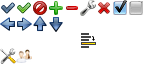
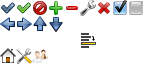
Доработаны стили главного меню.

Changed region(s): [[0.0, 0.75, 0.3333, 1.0]]

diff --git a/src/admin/themes/default/blocks/icon/_img/icon_img_users.css b/src/admin/themes/default/blocks/icon/_img/icon_img_users.css
@@ -1,5 +1,5 @@
 .icon_img_users
 {
     background-image: url(img/icons-16.png);
-    background-position: -16px -48px;
+    background-position: -32px -48px;
 }

diff --git a/src/admin/themes/default/blocks/icon/_img/icon_img_settings.css b/src/admin/themes/default/blocks/icon/_img/icon_img_settings.css
@@ -1,5 +1,5 @@
 .icon_img_settings
 {
     background-image: url(img/icons-16.png);
-    background-position: 0 -48px;
+    background-position: -16px -48px;
 }

diff --git a/src/admin/themes/default/blocks/main-menu/__item/_is/main-menu__item_is_current.css b/src/admin/themes/default/blocks/main-menu/__item/_is/main-menu__item_is_current.css
@@ -1,0 +1,5 @@
+.main-menu__item.main-menu__item_is_current
+{
+    background: white;
+    border-bottom-color: white;
+}

diff --git a/src/admin/themes/default/blocks/icon/_img/icon_img_home.css b/src/admin/themes/default/blocks/icon/_img/icon_img_home.css
@@ -1,0 +1,5 @@
+.icon_img_home
+{
+    background-image: url(img/icons-16.png);
+    background-position: 0 -48px;
+}
